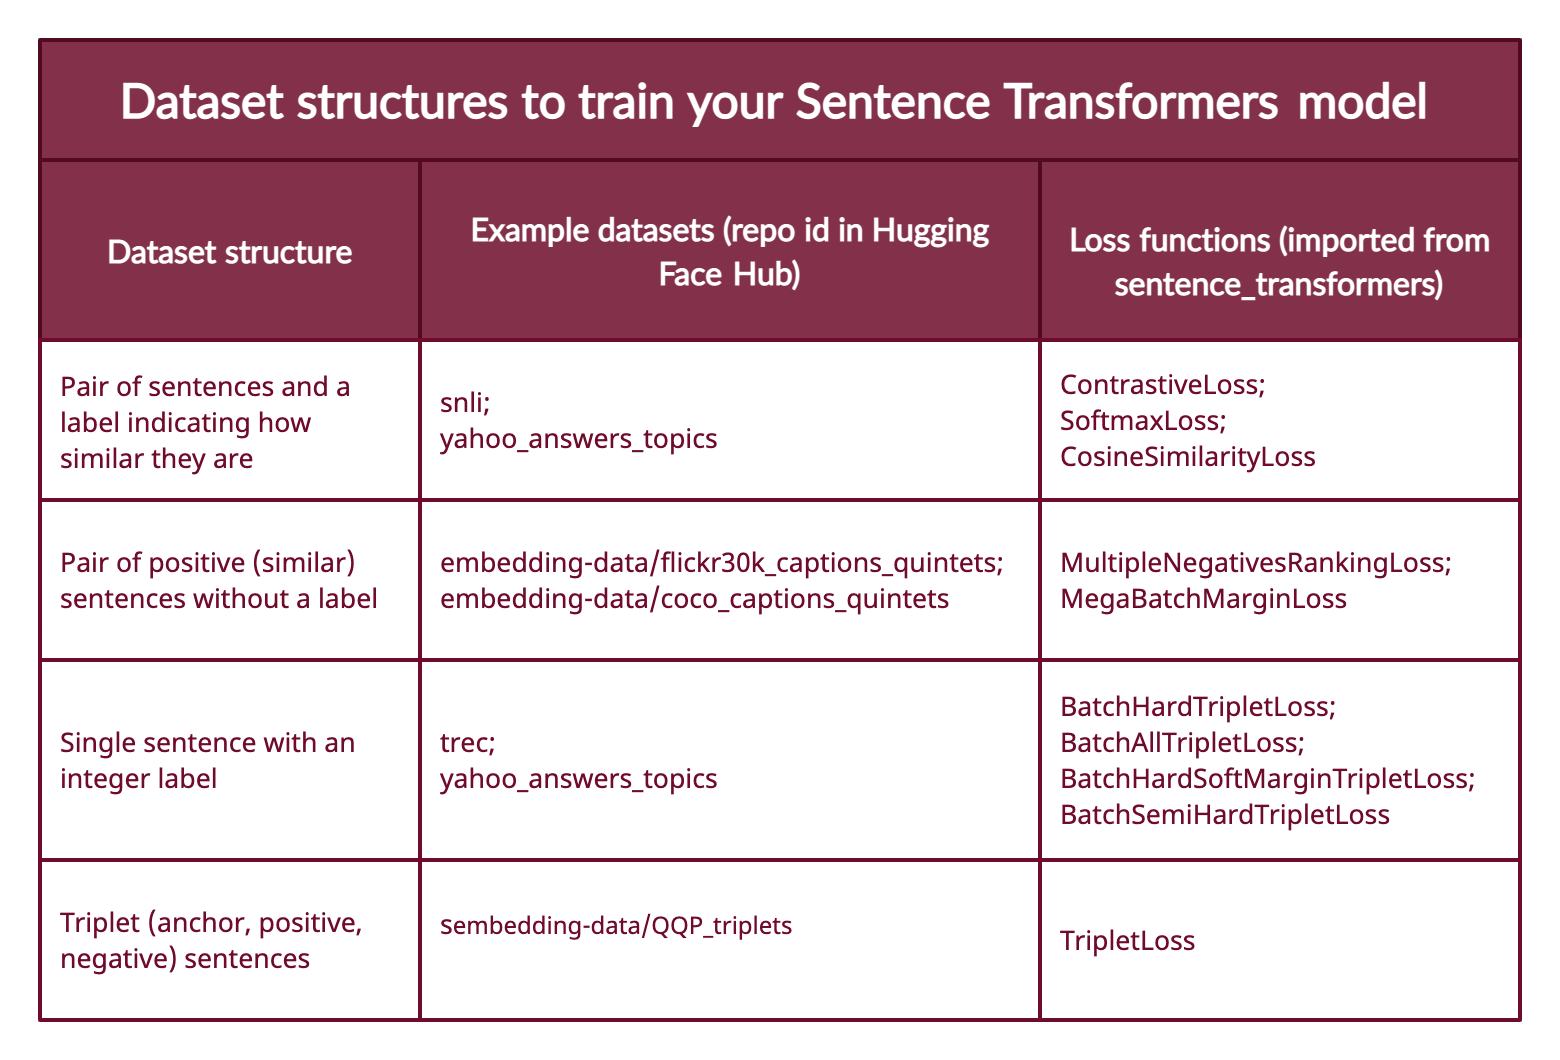
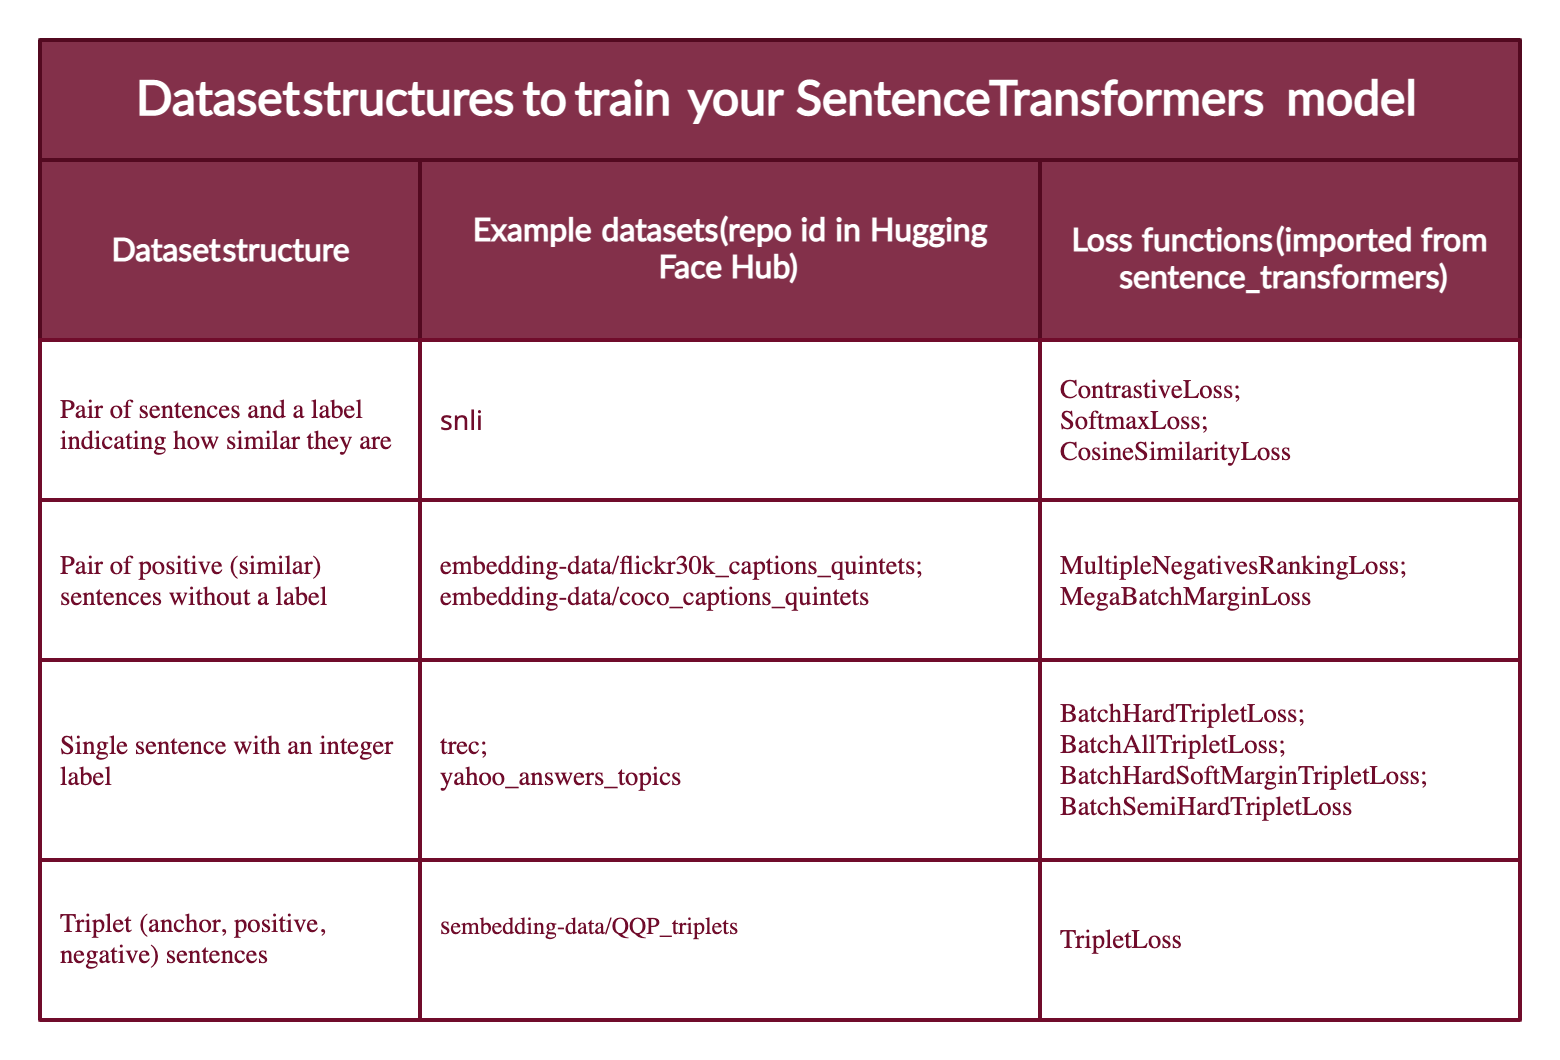
Take Yahoo dataset from case 1

diff --git a/how-to-train-sentence-transformers.md b/how-to-train-sentence-transformers.md
@@ -112,11 +112,11 @@ Note that Sentence Transformers models can be trained with human labeling (cases
 
 There are datasets on the Hugging Face Hub for each of the above cases. Additionally, the datasets in the Hub have a Dataset Preview functionality that allows you to view the structure of datasets before downloading them. Here are sample data sets for each of these cases:
 
-- Case 1: The same setup as for Natural Language Inference can be used if you have (or fabricate) a label indicating the degree of similarity between two sentences; for example {0,1,2} where 0 is contradiction and 2 is entailment. Review the structure of the [SNLI dataset](https://huggingface.co/datasets/snli). Another example is the [Yahoo Answers Topics dataset](https://huggingface.co/datasets/yahoo_answers_topics) where there are integer labels for each pair of sentences.
+- Case 1: The same setup as for Natural Language Inference can be used if you have (or fabricate) a label indicating the degree of similarity between two sentences; for example {0,1,2} where 0 is contradiction and 2 is entailment. Review the structure of the [SNLI dataset](https://huggingface.co/datasets/snli).
 
 - Case 2: The [Sentence Compression dataset](https://huggingface.co/datasets/embedding-data/sentence-compression) has examples made up of positive pairs. If your dataset has more than two positive sentences per example, for example quintets as in the [COCO Captions](https://huggingface.co/datasets/embedding-data/coco_captions_quintets) or the [Flickr30k Captions](https://huggingface.co/datasets/embedding-data/flickr30k_captions_quintets) datasets, you can format the examples as to have different combinations of positive pairs.
   
-- Case 3: The [TREC dataset](https://huggingface.co/datasets/trec) or [Yahoo Answers Topics dataset](https://huggingface.co/datasets/yahoo_answers_topics) have integer labels for each sentence.
+- Case 3: The [TREC dataset](https://huggingface.co/datasets/trec) has integer labels indicating the class of each sentence. Each example in the [Yahoo Answers Topics dataset](https://huggingface.co/datasets/yahoo_answers_topics) contains three sentences and a label indicating its topic; thus, each example can be divided into three.
 
 - Case 4: The [Quora Triplets dataset](https://huggingface.co/datasets/embedding-data/QQP_triplets) has triplets (anchor, positive, negative) without labels.
 
@@ -149,18 +149,18 @@ Output:
 ```
 You can see that `query` (the anchor) has a single sentence, `pos` (positive) is a list of sentences (the one we print has only one sentence), and `neg` (negative) has a list of multiple sentences.
 
-Convert the examples into `InputExample`'s. For simplicity, (1) only one of the positives and one of the negatives in the [embedding-data/QQP_triplets]((https://huggingface.co/datasets/embedding-data/QQP_triplets)) dataset will be used. (2) We will only employ 1,000 examples. You can obtain much better results by increasing the number of examples.
+Convert the examples into `InputExample`'s. For simplicity, (1) only one of the positives and one of the negatives in the [embedding-data/QQP_triplets]((https://huggingface.co/datasets/embedding-data/QQP_triplets)) dataset will be used. (2) We will only employ 1/2 of the available examples. You can obtain much better results by increasing the number of examples.
 
 ```py
-from tqdm.auto import tqdm
 from sentence_transformers import InputExample
 
 train_examples = []
-n_examples = 1000 
-## For training with the entire dataset you can use `for i in range(dataset['train'].num_rows):`
+train_data = dataset['train']['set']
+# For agility we only 1/2 of our available data
+n_examples = dataset['train'].num_rows // 2
 
-for i in tqdm(range(n_examples)):
-  example = dataset['train']['set'][i]
+for i in range(n_examples):
+  example = train_data[i]
   train_examples.append(InputExample(texts=[example['query'], example['pos'][0], example['neg'][0]]))
 ```
 Convert the training examples to a `Dataloader`.
@@ -230,7 +230,7 @@ Then, you can share your models by calling the `save_to_hub` method from the tra
 ```py
 model.save_to_hub(
     "distilroberta-base-sentence-transformer", 
-    organization="embedding-data",
+    organization= # Add your username
     train_datasets=["embedding-data/QQP_triplets"],
     )
 ```
